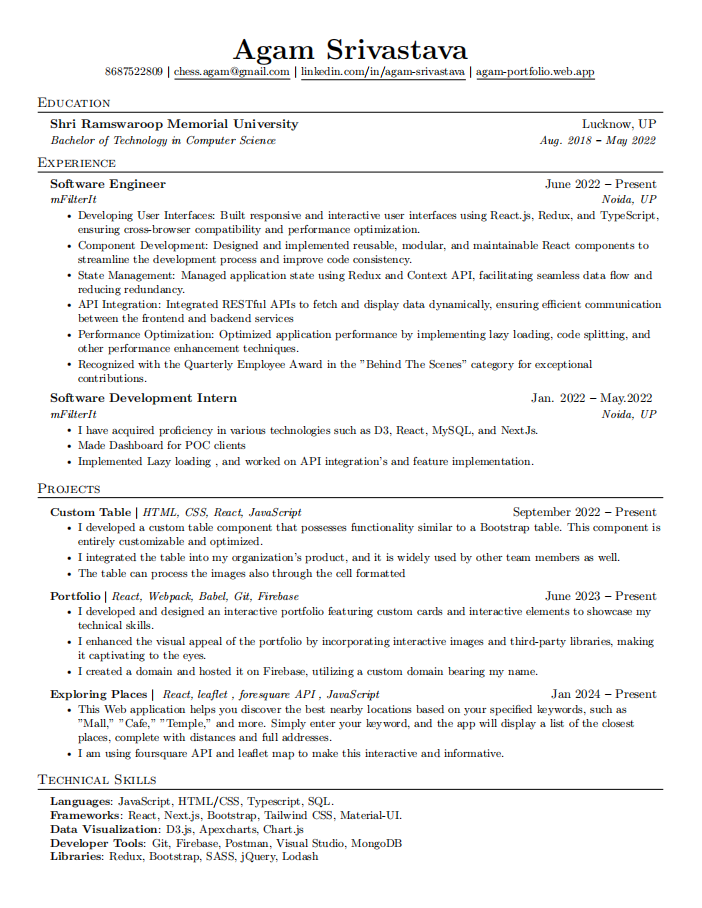
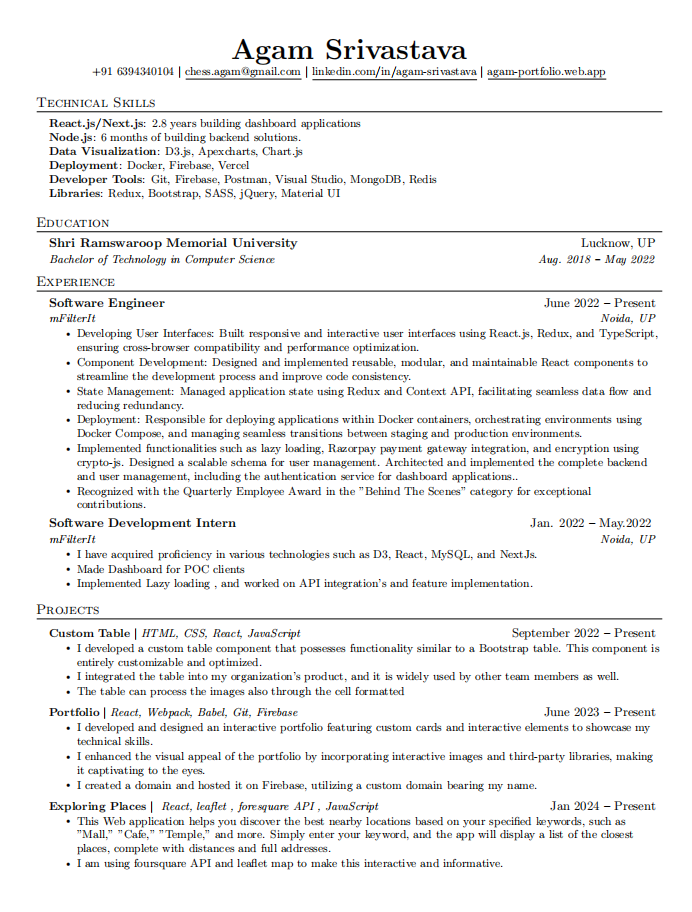
changed resume and updated stacks

Changed region(s): [[0.0303, 0.0308, 0.9711, 0.9559]]

diff --git a/src/components/Home/Home2.js b/src/components/Home/Home2.js
@@ -16,18 +16,11 @@ function Home2() {
               LET ME <span className="purple"> INTRODUCE </span> MYSELF
             </h1>
             <p className="home-about-body">
-              I am a Computer Science enthusiast , I love solving intresting
-              problems by logical and programming approaches . primarily
-              intrested in Frontend technologies like ReactJS , AngularJS , HTML
-              , CSS , JavaScript . Passionate to work in a progressive
-              organization that incorporates varied spectrum of work and
-              diversity with welcome attitude for new ideas and concept to
-              enhance the overall growth of the organisation.
+              As a passionate Computer Science enthusiast and International Rated chess player with a <a target="_blank"
+                rel="noreferrer" href={"https://ratings.fide.com/profile/25662210"}>fide Rating</a> of 1525
+              , I’ve represented Uttar Pradesh three times in Nationals (2017-18). <br/><br/>With 2.9 years of IT experience, I excel in problem-solving and have deep expertise in technologies like React.js, Next.js, Webflow, SCSS, JavaScript , TypeScript, and D3.js alongside state management using Redux. I also possess hands-on experience with backend frameworks like Node.js, Next.js, and NestJS, along with Docker, Shell Scripting, and Redis.
               <br />
-              <br />I am National level Chess player with a <a  target="_blank"
-                  rel="noreferrer" href={"https://ratings.fide.com/profile/25662210"}>fide Rating</a> of 1525
-              .
-              <br />
+
             </p>
           </Col>
         </Row>
@@ -35,7 +28,7 @@ function Home2() {
           <Col md={12} className="home-about-social">
             <h1>LET'S CONNECT</h1>
             <p>
-              Feel free to <span className="purple">connect </span>with me on 
+              Feel free to <span className="purple">connect </span>with me on
             </p>
             <ul className="home-about-social-links">
               <li className="social-icons">

diff --git a/src/components/About/Techstack.js b/src/components/About/Techstack.js
@@ -7,9 +7,11 @@ import {
   DiNodejs,
   DiMongodb,
   DiPython,
+  
   DiGit,
 } from "react-icons/di";
-import { FaNode } from "react-icons/fa";
+  import { FaDocker } from "react-icons/fa";
+  import { FaNode ,  } from "react-icons/fa";
 import { SiMysql, SiRedux, SiNextdotjs , SiTypescript } from "react-icons/si";
 
 function Techstack() {
@@ -35,6 +37,9 @@ function Techstack() {
       </Col>
       <Col xs={4} md={2} className="tech-icons">
         <SiMysql title="Mysql" />
+      </Col>
+      <Col xs={4} md={2} className="tech-icons">
+        <FaDocker title="Docker" />
       </Col>
      
     </Row>

diff --git a/src/components/Resume/resume.js b/src/components/Resume/resume.js
@@ -4,7 +4,7 @@ import Card from "react-bootstrap/Card";
 import Particle from "../Particle";
 import resume from "../../Assets/Projects/resume.png";
 
-const pdfLink = "https://drive.google.com/file/d/1C7HgYf19-VZ7fMsSlD6bwvFw3rt78Z5o/view";
+const pdfLink = "https://drive.google.com/file/d/1ZNDNfLtamz_R0v4sWB1BgE9ixjJkyRyY/view?usp=sharing";
 
 const handleDownload = () => {
     const link = document.createElement("a");

diff --git a/src/components/Home/Type.js b/src/components/Home/Type.js
@@ -7,6 +7,7 @@ function Type() {
       options={{
         strings: [
           "Software Engineer",
+          "Full Stack Developer",
           "Web Developer",
           "React Enthusiast",
           "National Level Chess Player", 
